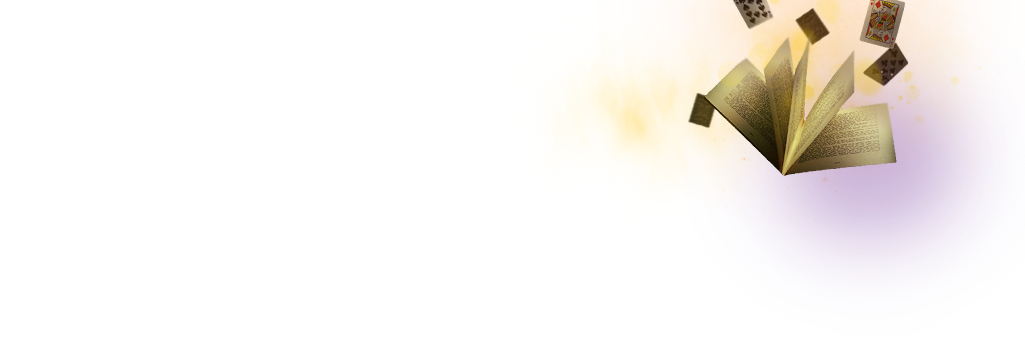
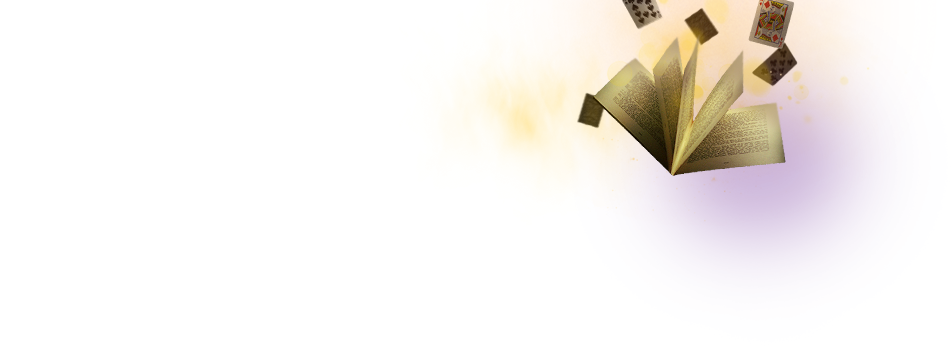
another fix part

Changed region(s): [[0.4879, 0.0, 0.9453, 0.6647]]

diff --git a/app/assets/stylesheets/albums.css b/app/assets/stylesheets/albums.css
@@ -2,17 +2,17 @@
 	width: 975px;
 	margin: 0 auto;
 }
-.albums-block .page-bg { width: 975px; background:url(gallery-bg.png) -10px 37px no-repeat; }
+.albums-block .page-bg { width: 975px; background: url(gallery-bg.png) 60px 39px no-repeat; }
 
 .albums-block div.top-line,
 .albums-block div.bot-line {
 	width: 975px;
 	height: 2px;
 	background: url(wide-line.png) no-repeat;
-	margin: 45px 0px;
+	margin: 25px 0 40px 0px; 
 }
 
-.albums-block h1.title {  position: relative; color: #d7c494; margin: 30px 0 65px 0; height: 35px; }
+.albums-block h1.title {  position: relative; color: #d7c494; margin: 22px 0 65px 0; height: 35px; }
 .albums-block h1.title span { position: absolute; top: 7px; left: 42px; background-color: #000; padding: 0 10px; z-index: 100; }
 .albums-block h1.title .border {
 	position: absolute;
@@ -25,13 +25,13 @@
 .albums-block .albums-list {
 	color: #fff;
 	height: 425px;
-	margin-left: 42px;
+	margin-left: 52px;
 }
 .albums-list .list-item {
 	float: left;
 
 	cursor: pointer;
-	margin: 0 15px 20px 15px;
+	margin: 0 25px 20px 0;
 	padding: 10px;
 
 	width: 180px;

diff --git a/app/assets/stylesheets/application.css b/app/assets/stylesheets/application.css
@@ -102,8 +102,8 @@ body {
   z-index: -1000;
 }
 
-.page-block h1.title {  position: relative; color: #d7c494; margin: 30px 0 65px 0; height: 35px; }
-.page-block h1.title span { text-transform: uppercase; position: absolute; top: 7px; left: 42px; background-color: #000; padding: 0 10px; z-index: 100; font-family: 'OfficinaSerifCRegularBook', Verdana; }
+.page-block h1.title {  position: relative; color: #d7c494; margin: 22px 0 73px 0; height: 35px; }
+.page-block h1.title span { text-transform: uppercase; position: absolute; top: 7px; left: 42px; background-color: #000; padding: 0 10px 0 5px; z-index: 100; font-family: 'OfficinaSerifCRegularBook', Verdana; }
 .page-block h1.title .border {
   position: absolute;
   bottom: 0px;
@@ -133,7 +133,7 @@ body {
 .pagination .previous_page {
   display: block;
   position: absolute;
-  left: -35px;
+  left: -65px;
 
   width: 35px;
   height: 100px;
@@ -145,7 +145,7 @@ body {
 .pagination .next_page {
   display: block;
   position: absolute;
-  left: 930px;
+  left: 910px;
   
   width: 35px;
   height: 100px;

diff --git a/app/assets/stylesheets/album_items.css b/app/assets/stylesheets/album_items.css
@@ -2,14 +2,14 @@
 	width: 975px;
 	margin: 0 auto;
 }
-.album_items-block .page-bg { width: 975px; background:url(gallery-bg.png) -10px 37px no-repeat; }
+.album_items-block .page-bg { width: 975px; background:url(gallery-bg.png) 60px 39px no-repeat; }
 
 .album_items-block div.top-line,
 .album_items-block div.bot-line {
 	width: 975px;
 	height: 2px;
 	background: url(wide-line.png) no-repeat;
-	margin: 25px 0 45px 0px;
+  margin: 25px 0 40px 0px; 
 }
 
 .album_items-block h1.title {
@@ -19,13 +19,13 @@
 .album_items-block .album_items-list {
 	color: #fff;
 	height: 600px;
-	margin-left: 42px;
+	margin-left: 52px;
 }
 .album_items-list .list-item {
 	float: left;
 
 	cursor: pointer;
-	margin: 0 15px 20px 15px;
+	margin: 0 25px 20px 0;
 	padding: 10px;
 
 	width: 180px;

diff --git a/app/assets/stylesheets/album_item.css b/app/assets/stylesheets/album_item.css
@@ -2,15 +2,16 @@
 	width: 975px;
 	margin: 0 auto;
 }
-.album_item-block .page-bg { width: 975px; background:url(gallery-bg.png) -10px 37px no-repeat; }
+.album_item-block .page-bg { width: 975px; background:url(gallery-bg.png) 60px 39px no-repeat; }
 
 .album_item-block div.top-line,
 .album_item-block div.bot-line {
 	width: 975px;
 	height: 2px;
 	background: url(wide-line.png) no-repeat;
-	margin: 25px 0 45px 0px;
+	margin: 25px 0 40px 0px; 
 }
+.album_item-block .album_item { margin-left: 52px; }
 
 .album_item-block h1.title {
 	margin-bottom: 20px;
@@ -27,9 +28,4 @@
 	display: block;
 	font: 18px Verdana;
 	color: #fff;
-}
-
-.album_item-block .wrapper img {
-	display: block;
-	margin-left: 52px;
 }

diff --git a/app/assets/stylesheets/home.css b/app/assets/stylesheets/home.css
@@ -61,8 +61,8 @@
 	width: 975px;
 	margin: 0 auto;
 }
-.bio-block .page-bg { width: 975px; background: url(bio-bg.png) -40px 39px no-repeat; }
-
+.bio-block .page-bg { width: 975px; background: url(bio-bg.png) 70px 39px no-repeat; }
+.bio-block h1.title { margin: 23px 0 73px 0; }
 .bio-block div.top-line,
 .bio-block div.bot-line {
 	width: 975px;

diff --git a/app/assets/stylesheets/posts.css b/app/assets/stylesheets/posts.css
@@ -2,7 +2,7 @@
 	width: 975px;
 	margin: 0 auto;
 }
-.news-block .page-bg { width: 975px; background: url(news-bg.png) -10px 37px no-repeat; }
+.news-block .page-bg { width: 975px; background: url(news-bg.png) 60px 39px no-repeat; }
 
 .news-block div.top-line,
 .news-block div.bot-line {
